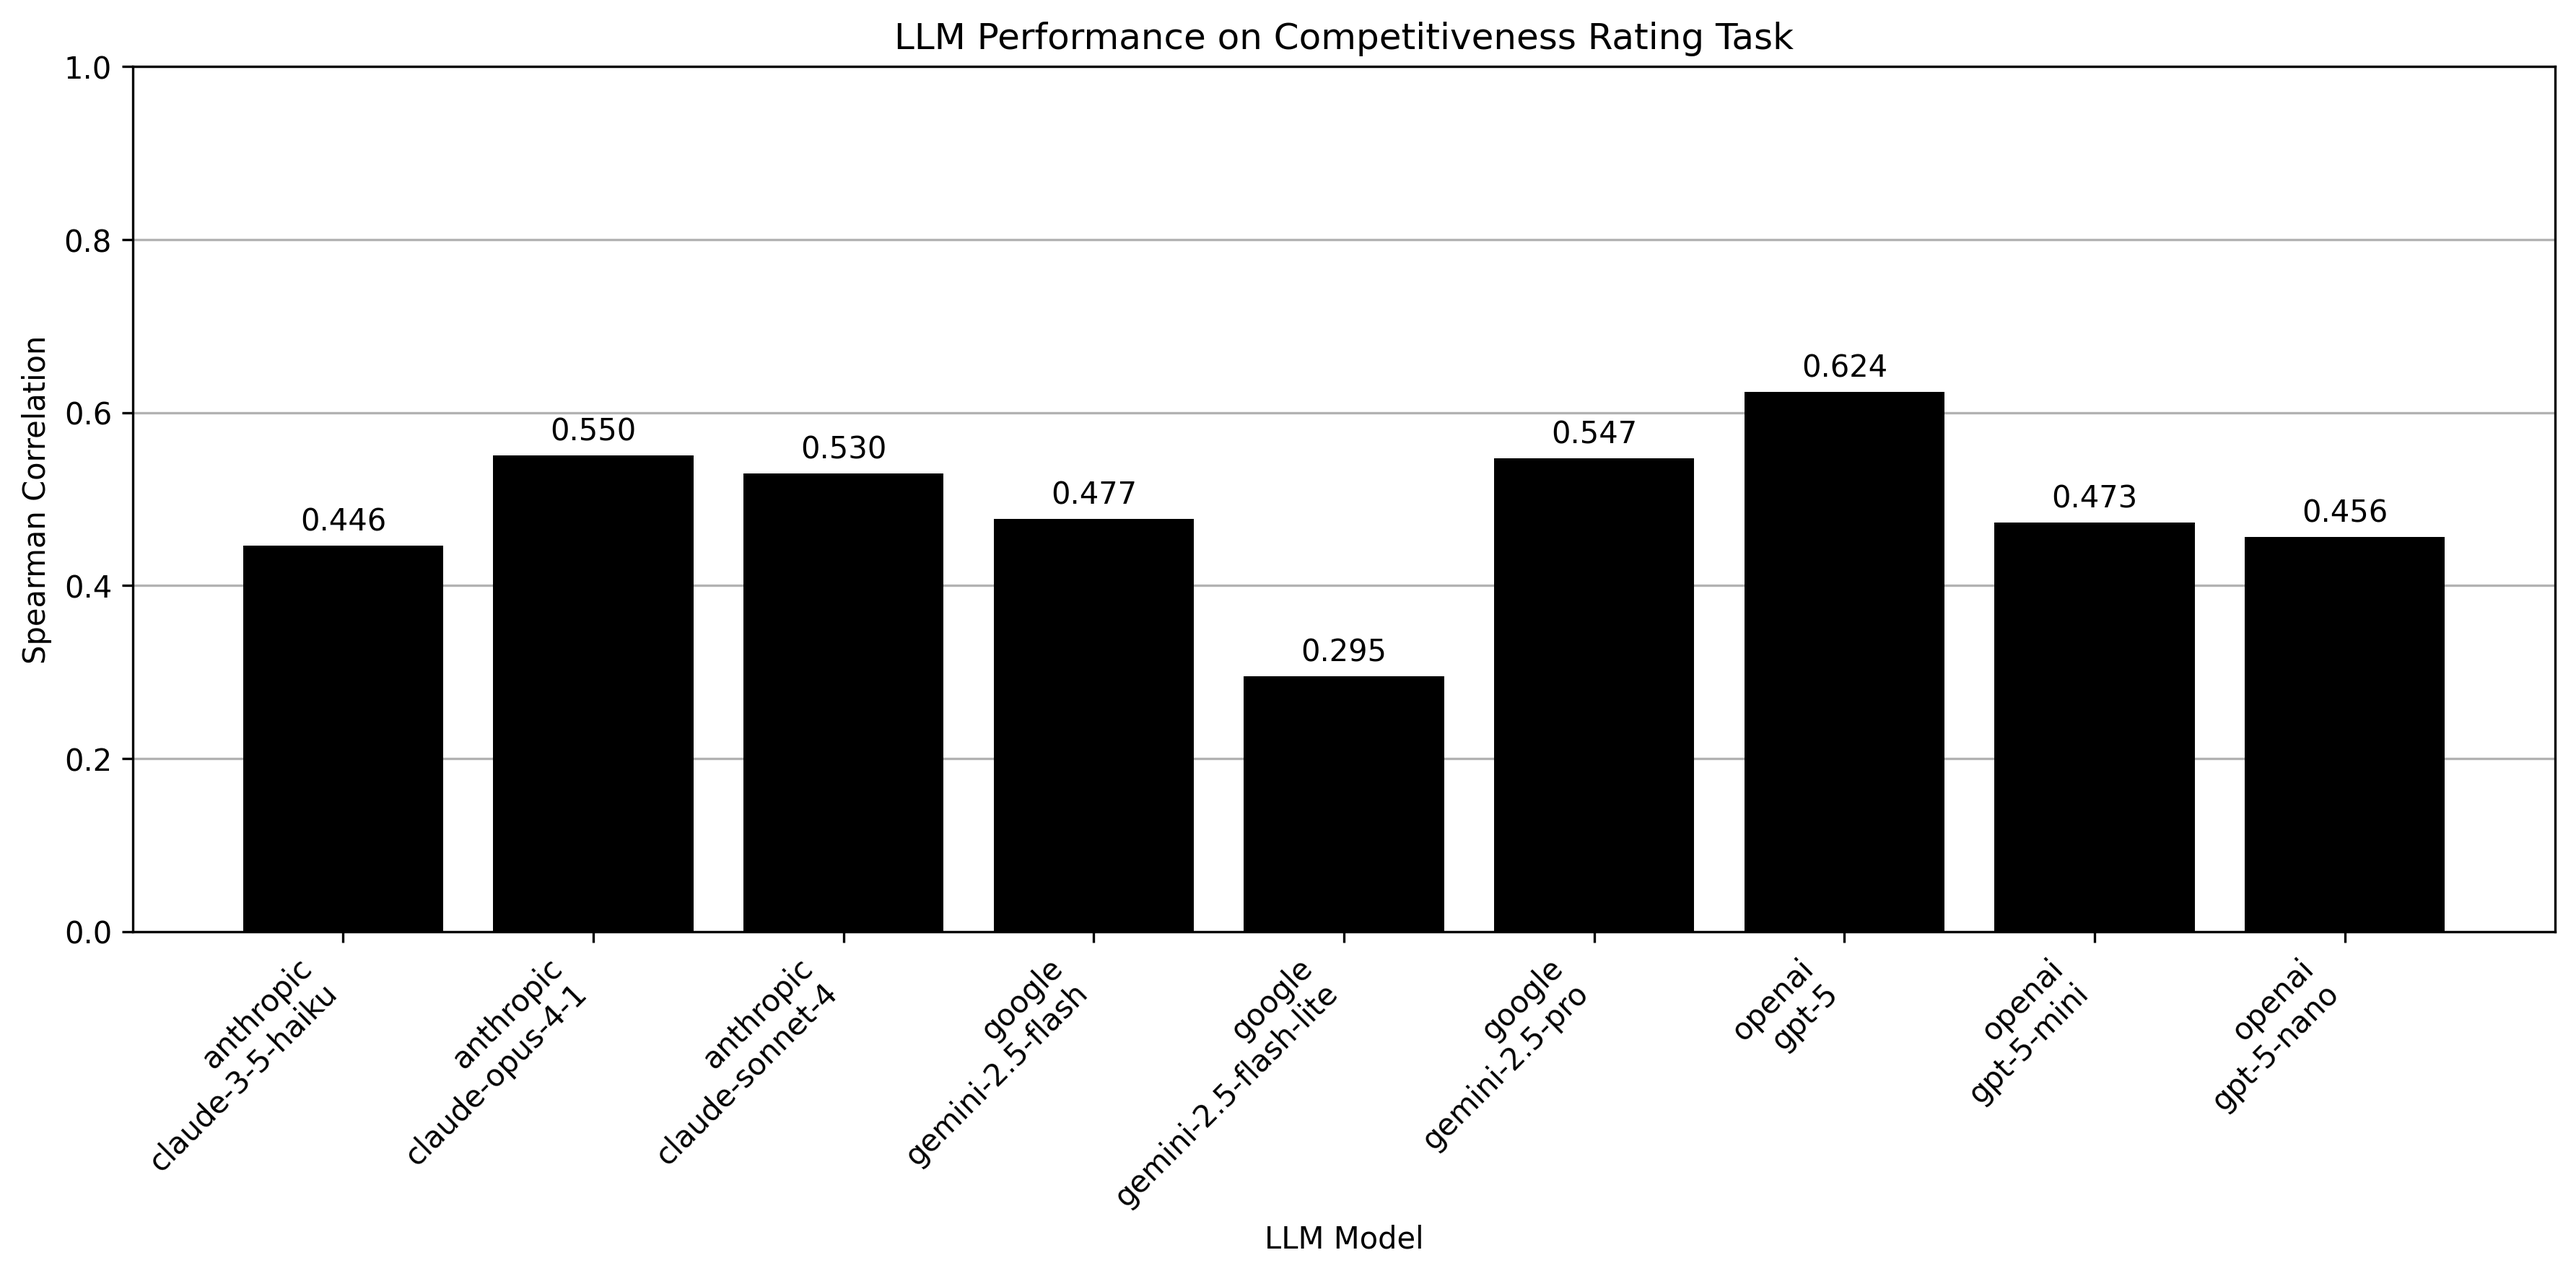
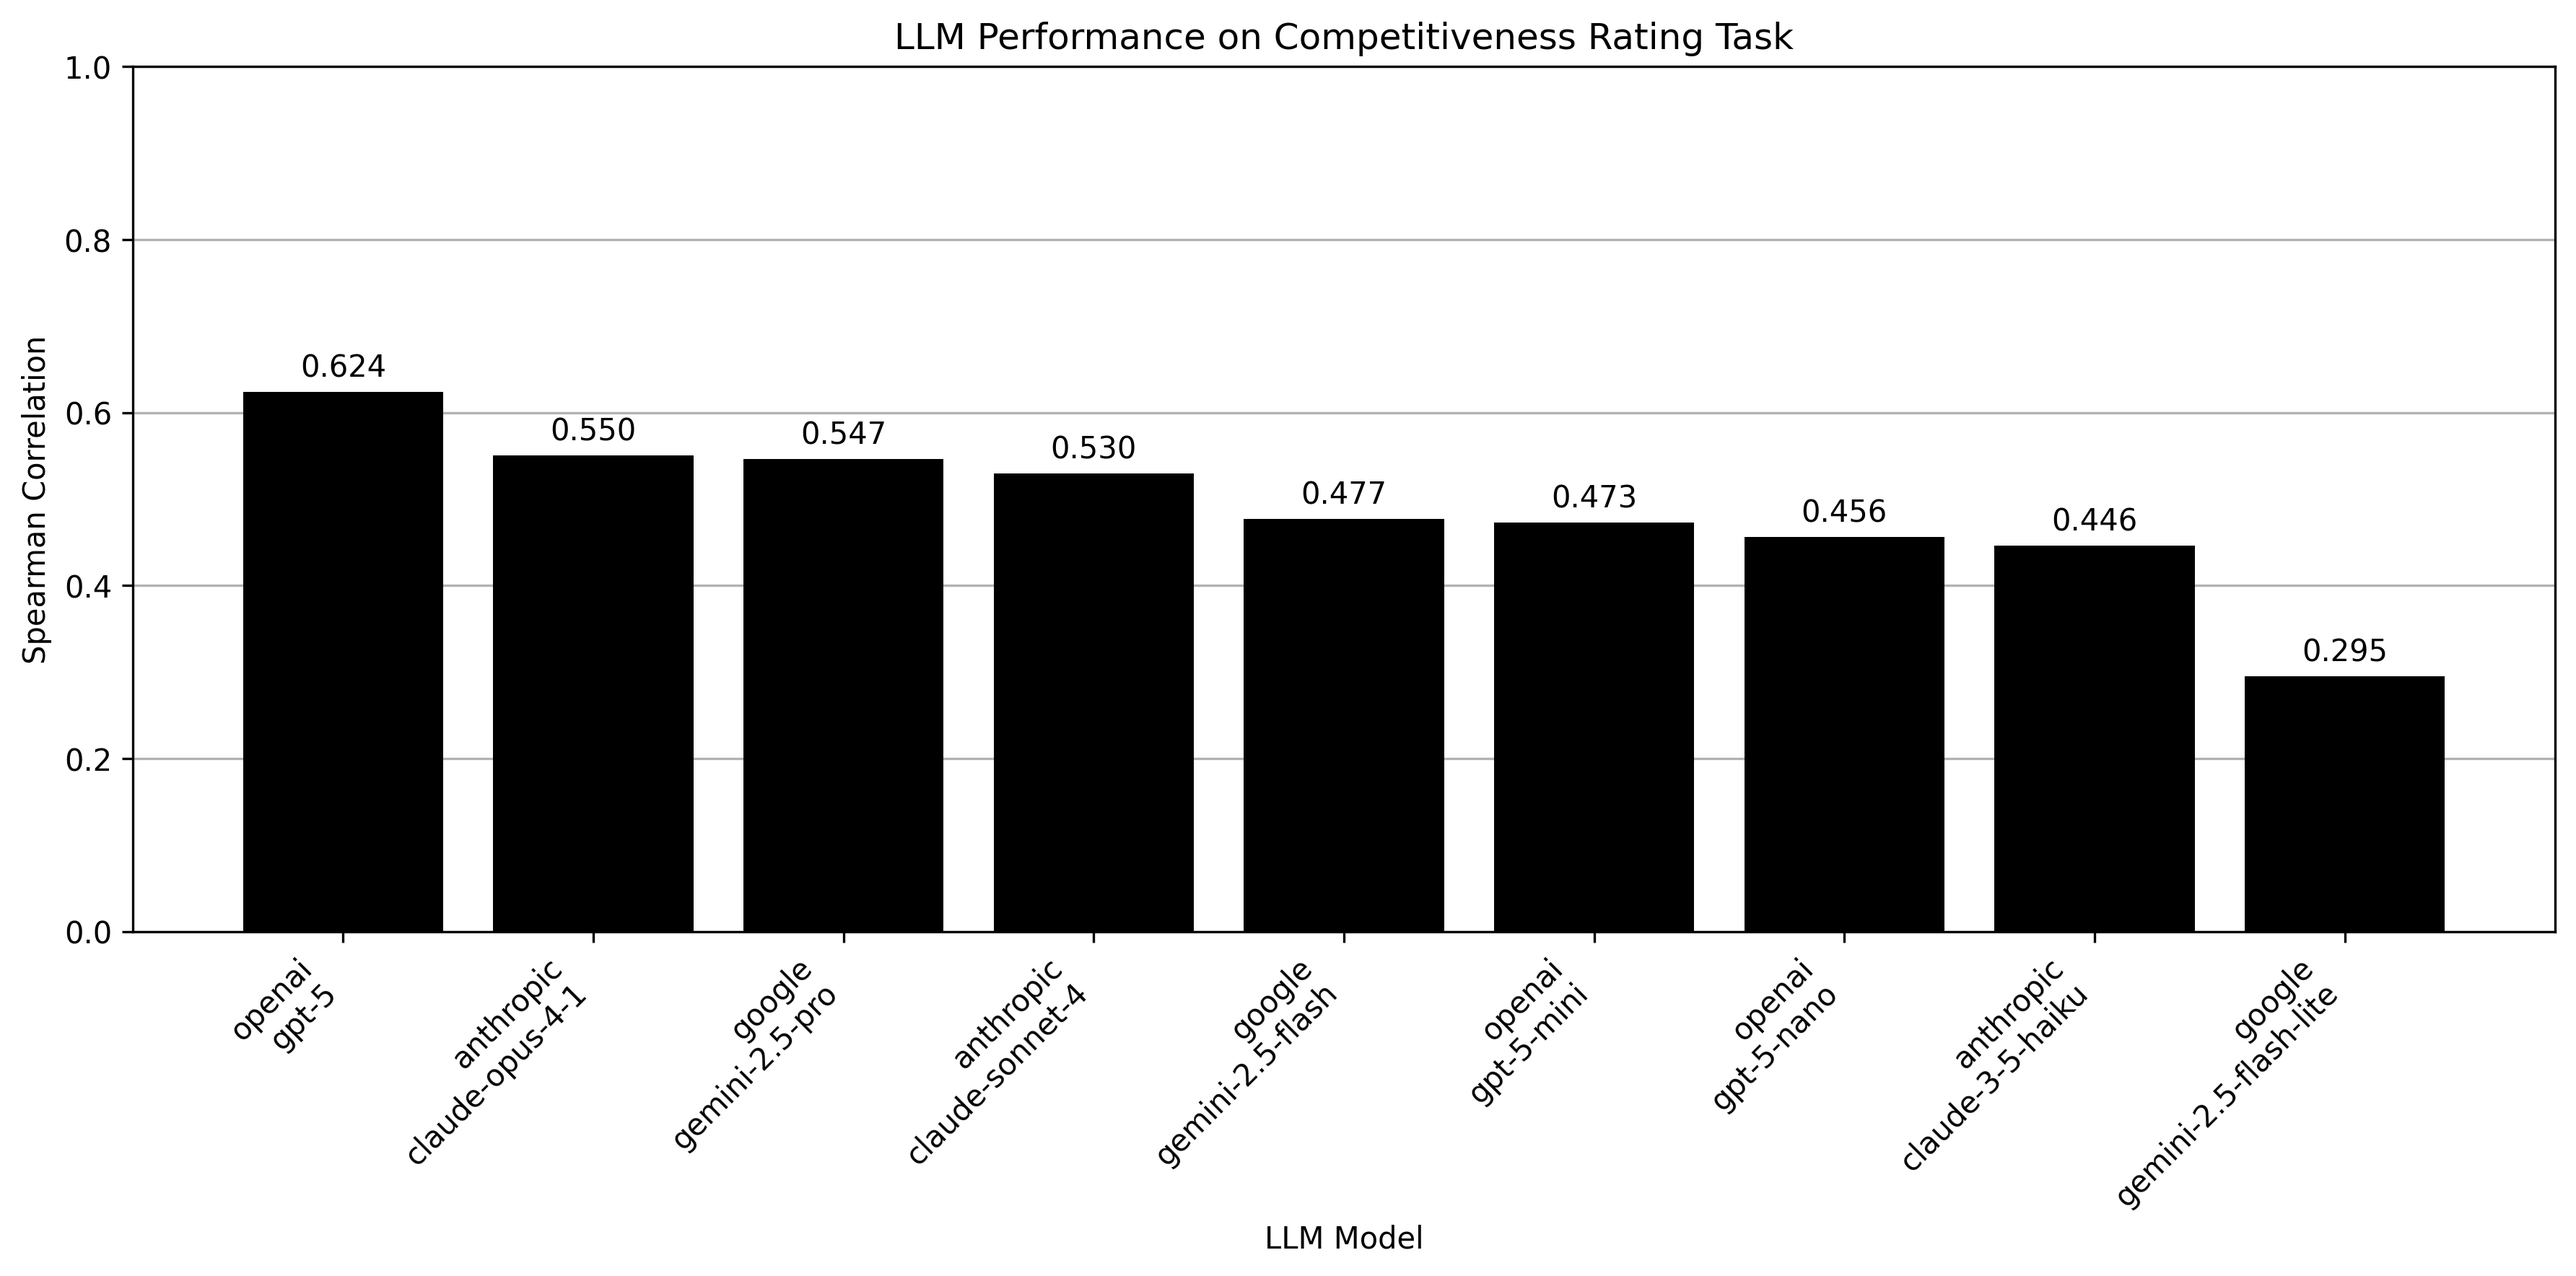
feat: Sort charts by score

diff --git a/cli.py b/cli.py
@@ -113,7 +113,8 @@ def create_box_plot(all_results: dict[str, list[EvaluationMetrics]]) -> None:
 
 def create_r2_plot(results: dict[str, EvaluationMetrics]) -> None:
     """Create bar plot of R² scores by LLM model."""
-    models = sorted(results.keys())
+    # Sort models by R² score in descending order
+    models = sorted(results.keys(), key=lambda x: results[x].r2, reverse=True)
     r2_scores = [results[model].r2 for model in models]
 
     # Clean up model names for display
@@ -156,7 +157,10 @@ def create_r2_plot(results: dict[str, EvaluationMetrics]) -> None:
 
 def create_spearman_plot(results: dict[str, EvaluationMetrics]) -> None:
     """Create bar plot of Spearman correlations by LLM model."""
-    models = sorted(results.keys())
+    # Sort models by Spearman correlation in descending order
+    models = sorted(
+        results.keys(), key=lambda x: results[x].spearman_corr, reverse=True
+    )
     spearman_corrs = [results[model].spearman_corr for model in models]
 
     # Clean up model names for display
